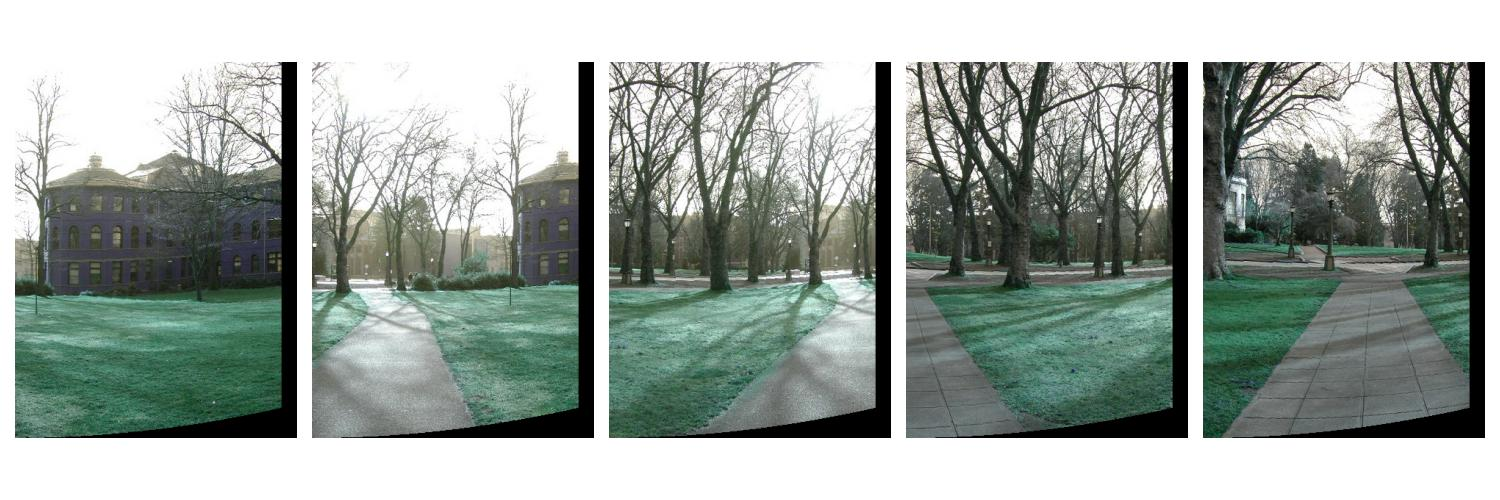
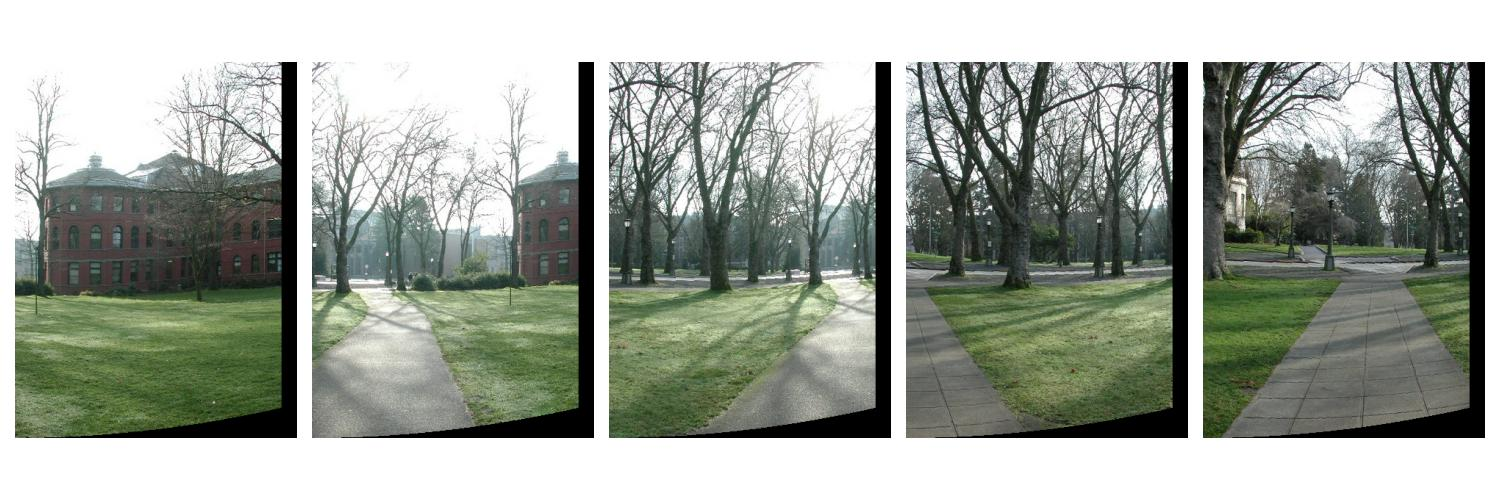
Implementation of SIFT feature descriptor

diff --git a/util.py b/util.py
@@ -4,21 +4,35 @@ import numpy as np
 import math
 
 from plot import *
+from tqdm.auto import tqdm
 
 
 class Matching():
     def __init__(
             self,
             images: np.array,
-            focal_len: float
+            focal_len: float,
+            k_size: int=5,
+            corner_resp_weight: float=1,  # Modify this attribute to control the number of feature points. Higher value leads to fewer points.
+            n_bins: float=8,
+            p_size: int=8,
+            desc_thres: float=0.2,
+            visualization: bool=True,
         ) -> None:
         self.n_images = images.shape[0]
         self.h = images.shape[1]
         self.w = images.shape[2]
         self.focal_len = focal_len
+
+        self._k_size = k_size
+        self._corner_resp_weight = corner_resp_weight
+        self._n_bins = n_bins
+        self._p_size = p_size
+        self._desc_thres = desc_thres
+
+        self.visualization = visualization
         self.images = self.warping(images) # shape: (17, 512, 384, 3)
-    
-    # TODO: Fix color
+
     def warping(self, images):
         warped_images = np.zeros(images.shape, 'uint8')
 
@@ -31,58 +45,63 @@ class Matching():
                     warped_images[: , new_y, new_x, :] = images[: , y, x, ::-1]
         
         # Visualization
-        plot_image(warped_images[:5], './test_data/visualization/warp_images.jpg')
+        if self.visualization:
+            plot_images(warped_images[:5], './test_data/visualization/warp_images.jpg')
 
         return warped_images
-    
-    
+
     def detection(self):
+        print('Feature detection...')
         ## Harris detector
         sigma = 3
-        w = 5
         k = 0.05
-        images_R = []
-        # Sobel kernels
-        Sx = np.array([
-            [1, 0, -1],
-            [2, 0, -2],
-            [1, 0, -1]])
 
-        Sy = Sx.T
-
-        # Gaussian Kernel
-        G = np.array([
-            [1, 2, 1],
-            [2, 4, 2],
-            [1, 2, 1]])/16
+        feat_point_list = list()
+        orientation_list = list()
+        descriptor_list = list()
         
-        for img in self.images:
+        for img in tqdm(self.images):
             ## gray scale
             gray = cv2.cvtColor(img, cv2.COLOR_RGB2GRAY)
             gray = np.float32(gray)
 
             ## get gradient
-            I = cv2.GaussianBlur(gray, (w, w), sigma)
-            Ix, Iy = cv2.Sobel(I, cv2.CV_64F, 1, 0, w), cv2.Sobel(I, cv2.CV_64F, 0, 1, w)
+            Ix, Iy = self._compute_gradient(gray)
             
             ## computer corner response
             Ix2 = Ix ** 2
             Iy2 = Iy ** 2
             Ixy = Ix * Iy
-            Sx2 = cv2.GaussianBlur(Ix2, (w, w), sigma)
-            Sy2 = cv2.GaussianBlur(Iy2, (w, w), sigma)
-            Sxy = cv2.GaussianBlur(Ixy, (w, w), sigma)
+            Sx2 = cv2.GaussianBlur(Ix2, (self._k_size, self._k_size), sigma)
+            Sy2 = cv2.GaussianBlur(Iy2, (self._k_size, self._k_size), sigma)
+            Sxy = cv2.GaussianBlur(Ixy, (self._k_size, self._k_size), sigma)
 
             R = (Sx2 * Sy2 - Sxy ** 2) - k * (Sx2+Sy2) ** 2  # (h, w)
+            
+            # Feature points selection: Apply threshold and non-maximum suppression.
+            feat_points = self._feat_points_selection(R, np.mean(R) + self._corner_resp_weight * np.std(R))
+            
+            # Orientation assignment
+            orientations = self._compute_orientations(gray, return_orientation=True)
 
-            feat_pts_x, feat_pts_y = self._find_feat_points(R, np.mean(R) + 0.5 * np.std(R))
-            print(feat_pts_x.shape, feat_pts_y.shape)
+            # Local descriptors
+            feat_points, descriptors = self._compute_descriptors(gray, feat_points, orientations)
 
-    def _find_feat_points(
+            feat_point_list.append(feat_points)
+            orientation_list.append(orientations)
+            descriptor_list.append(descriptors)
+        
+        if self.visualization:
+            plot_features(self.images[0], feat_point_list[0], './test_data/visualization/feature_points.jpg')
+            plot_orientations(self.images[0], feat_point_list[0], orientation_list[0], './test_data/visualization/feature_orientations.jpg')
+
+        return feat_point_list, descriptor_list
+
+    def _feat_points_selection(
         self, 
         response: np.array, 
         thres: float,
-    ):
+    ) -> tuple:
         '''Find feature points satisfying:
         1) Corner response is higher than the threshold.
         2) Corner response is higher that that of it\'s neighbor\'s
@@ -92,7 +111,7 @@ class Matching():
             threshold
 
         Return:
-            feat_points_x (np.array), feat_points_y (np.array)
+            feat_points (tuple): A tuple of feature points with format (y-coordinates, x-coordinates)
         '''
         feat_points = np.zeros(response.shape, np.uint8)
         feat_points[response >= thres] = 1
@@ -111,4 +130,120 @@ class Matching():
 
         feat_points = np.where(feat_points == 1)
 
-        return feat_points[1], feat_points[0] 
+        return feat_points
+
+    def _compute_orientations(
+        self,
+        image: np.array,
+        sigma: float=1.5,
+        return_orientation: bool=True,
+    ) -> np.array:
+        '''Implementation of SIFT orientation assignment.
+
+        Args:
+            image (np.array): Image with shape (h, w)
+            sigma (float): Sigma for GaussianBlur filter.
+            return_orientation (bool): `True` for returning orientation; `False` for returning histogram.
+        Return:
+            Orientation (np.array, shape: (h, w)) or Histogram (np.array, shape: (h, w)).
+        '''
+        Ix, Iy = self._compute_gradient(image)
+
+        # Orientation assignment
+        ori_weights = np.sqrt(Ix ** 2 + Iy ** 2)
+
+        theta = np.rad2deg(np.arctan2(Iy, Ix))
+        theta[theta < 0] += 360
+
+        bin_size = 360.0 / self._n_bins
+        theta2bin = theta // bin_size
+
+        histogram = np.zeros((self._n_bins, self.h, self.w))
+
+        for b in range(self._n_bins):
+            histogram[b][theta2bin == b] = 1
+            histogram[b] = cv2.GaussianBlur(histogram[b] * ori_weights, (self._k_size, self._k_size), sigma)
+        
+        if return_orientation:
+            return np.argmax(histogram, axis=0) * bin_size + (bin_size / 2)
+        else:
+            return histogram
+
+    def _compute_descriptors(
+        self,
+        gray_image: np.array,
+        feat_points: np.array,
+        orientations: np.array,
+    ) -> tuple:
+        '''Implementation of SIFT feature descriptor.
+
+        Args:
+            gray_image (np.array): The gray-scaled image. Shape: (h, w).
+            feat_points (tuple): A tuple of feature points with format (y-coordinates, x-coordinates).
+            orientations (np.array): The orientation of each pixel. Shape: (h, w).
+
+        Returns:
+            new_feat_pts (np.array): The feature points [[x, y], ] with valid descriptors. Shape: (n_pts, 2).
+            descriptors (np.array): Feature descriptors. Shape: (n_pts, n_bins * (p_size // 2) ** 2)
+        '''
+        feat_points_y, feat_points_x = feat_points
+
+        descriptors = list()
+        new_feat_pts = list()
+
+        for fp_x, fp_y in zip(feat_points_x, feat_points_y):
+            if fp_x - self._p_size < 0 or fp_x + self._p_size >= self.w or fp_y - self._p_size < 0 or fp_y + self._p_size >= self.w:
+                continue
+
+            rotated_image = self._rotate_image(gray_image, (float(fp_x), float(fp_y)), orientations[fp_y, fp_x])
+            rotated_histogram = self._compute_orientations(rotated_image, sigma=self._p_size * 0.5, return_orientation=False,)
+
+            descriptor = list()
+            for window_x in range(fp_x - self._p_size, fp_x + self._p_size, self._p_size // 2):
+                for window_y in range(fp_y - self._p_size, fp_y + self._p_size, self._p_size // 2):
+                    descriptor.extend([np.sum(rotated_histogram[b][window_y: window_y+self._p_size, window_x: window_x+self._p_size]) for b in range(rotated_histogram.shape[0])])
+            
+            descriptor = self._norm(descriptor)
+            descriptor[descriptor > self._desc_thres] = self._desc_thres
+
+            descriptors.append(self._norm(descriptor))
+            new_feat_pts.append([fp_x, fp_y])
+
+        return np.array(new_feat_pts), np.array(descriptors)
+
+    def _compute_gradient(
+        self,
+        image: np.array,
+        sigma: float=3,
+    ):
+        I = cv2.GaussianBlur(image, (self._k_size, self._k_size), sigma)
+        Ix, Iy = cv2.Sobel(I, cv2.CV_64F, 1, 0, self._k_size), cv2.Sobel(I, cv2.CV_64F, 0, 1, self._k_size)
+
+        return Ix, Iy
+    
+    def _rotate_image(
+        self,
+        image: np.array,
+        center: tuple,
+        theta: float,
+    ):
+        '''Rotate image with regard to the center.
+
+        Args: 
+            image (np.array): Image to be rotated.
+            center (tuple): Rotation center (x, y).
+            theta (float): Degree of rotation.
+        
+        Return:
+            The image after rotation.
+        '''
+        matrix = cv2.getRotationMatrix2D(center, theta, 1)
+
+        return cv2.warpAffine(image, matrix, (self.w, self.h))
+    
+    def _norm(
+        self,
+        vector: np.array,
+    ):
+        norm = np.linalg.norm(vector)
+        return vector / norm if norm != 0 else vector

diff --git a/plot.py b/plot.py
@@ -3,7 +3,13 @@ import matplotlib.pyplot as plt
 import numpy as np
 
 
-def plot_image(images, save_path, title=None):
+def plot_images(
+    images: np.array,
+    save_path: str,
+    title: str=None
+) -> None:
+    '''Plot images
+    '''
     n_col = len(images)
 
     fig = plt.figure(figsize=(15, 5))
@@ -17,3 +23,50 @@ def plot_image(images, save_path, title=None):
     
     plt.tight_layout()
     fig.savefig(save_path)
+
+
+def plot_features(
+    image: np.array,
+    feat_points: np.array,
+    save_path: str,
+) -> None: 
+    img = np.copy(image)
+
+    for feat_pt in feat_points:
+        fp_x, fp_y = feat_pt[0], feat_pt[1]
+        cv2.circle(img, (fp_x, fp_y), radius=1, color=(0, 255, 255), thickness=4)
+    
+    cv2.imwrite(save_path, img)
+
+
+# TODO(yhfang): Try different implementation to plot the orientation of each feature point.
+def plot_orientations(
+    image: np.array,
+    feat_points: np.array,
+    orientations: np.array,
+    save_path: str,
+) -> None: 
+    bin_size = 45
+    bins = (orientations - (bin_size / 2)) // bin_size
+    bins = bins.astype(int)
+
+    bin2coord = {
+        0: (1, 0),
+        1: (1, -1),
+        2: (0, -1),
+        3: (-1, -1),
+        4: (-1, 0),
+        5: (-1, 1),
+        6: (0, 1),
+        7: (1, 1),
+    }
+
+    img = np.copy(image)
+    h, w = bins.shape
+
+    for feat_pt in feat_points:
+        fp_x, fp_y = feat_pt[0], feat_pt[1]
+        dx, dy = bin2coord[bins[fp_y, fp_x]]
+        cv2.arrowedLine(img, (fp_x, fp_y), (fp_x + dx, fp_y + dy), color=(0, 0, 255), thickness=2)  
+    
+    cv2.imwrite(save_path, img)

diff --git a/main.py b/main.py
@@ -45,7 +45,7 @@ def main(args):
     match = Matching(images=images, focal_len=args.focal_len)
     
     # feature detection:
-    match.detection()
+    feat_point_list, descriptor_list = match.detection()
 
     # feature matching:
 
